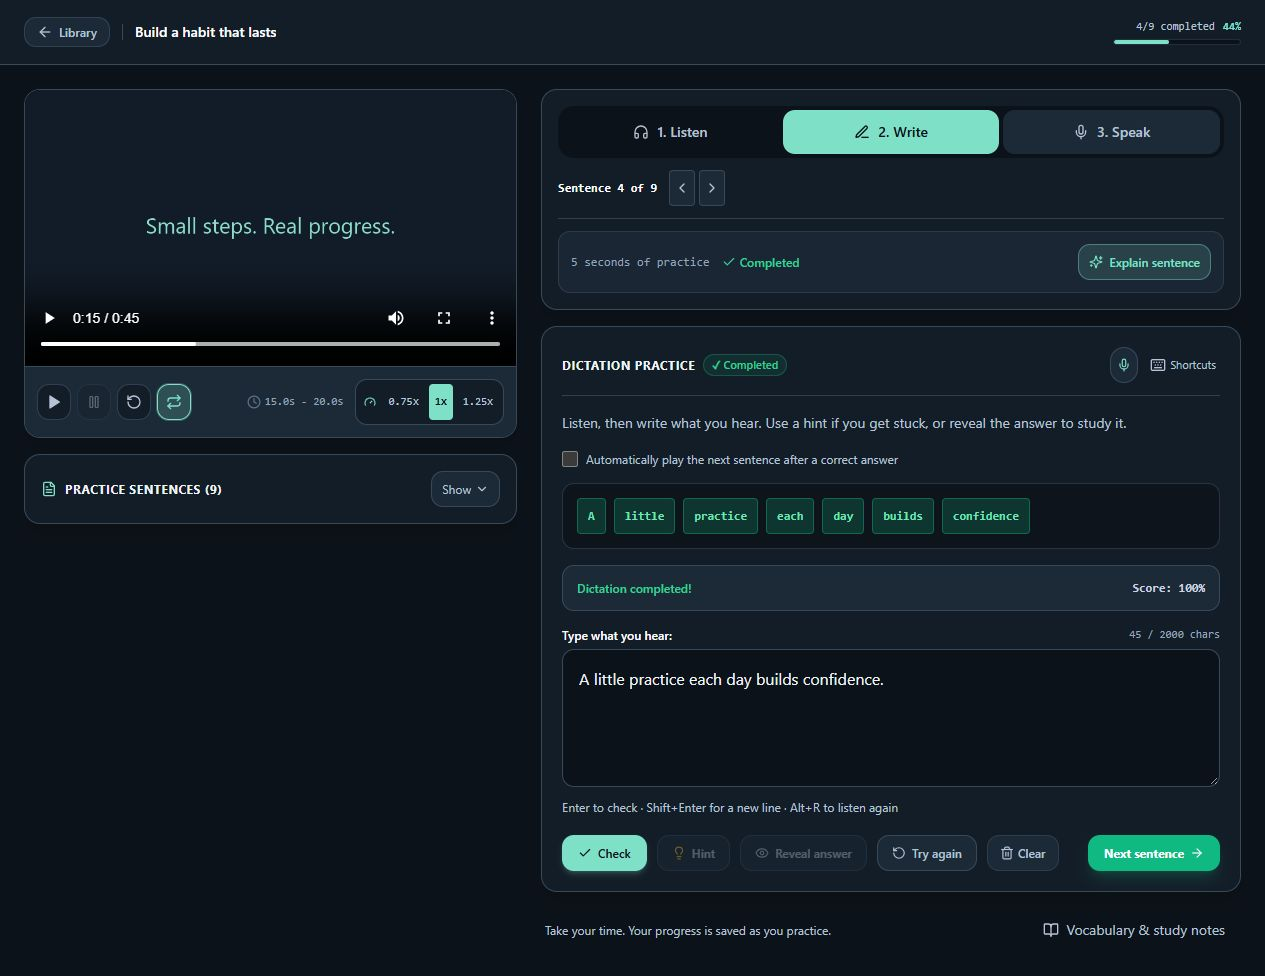
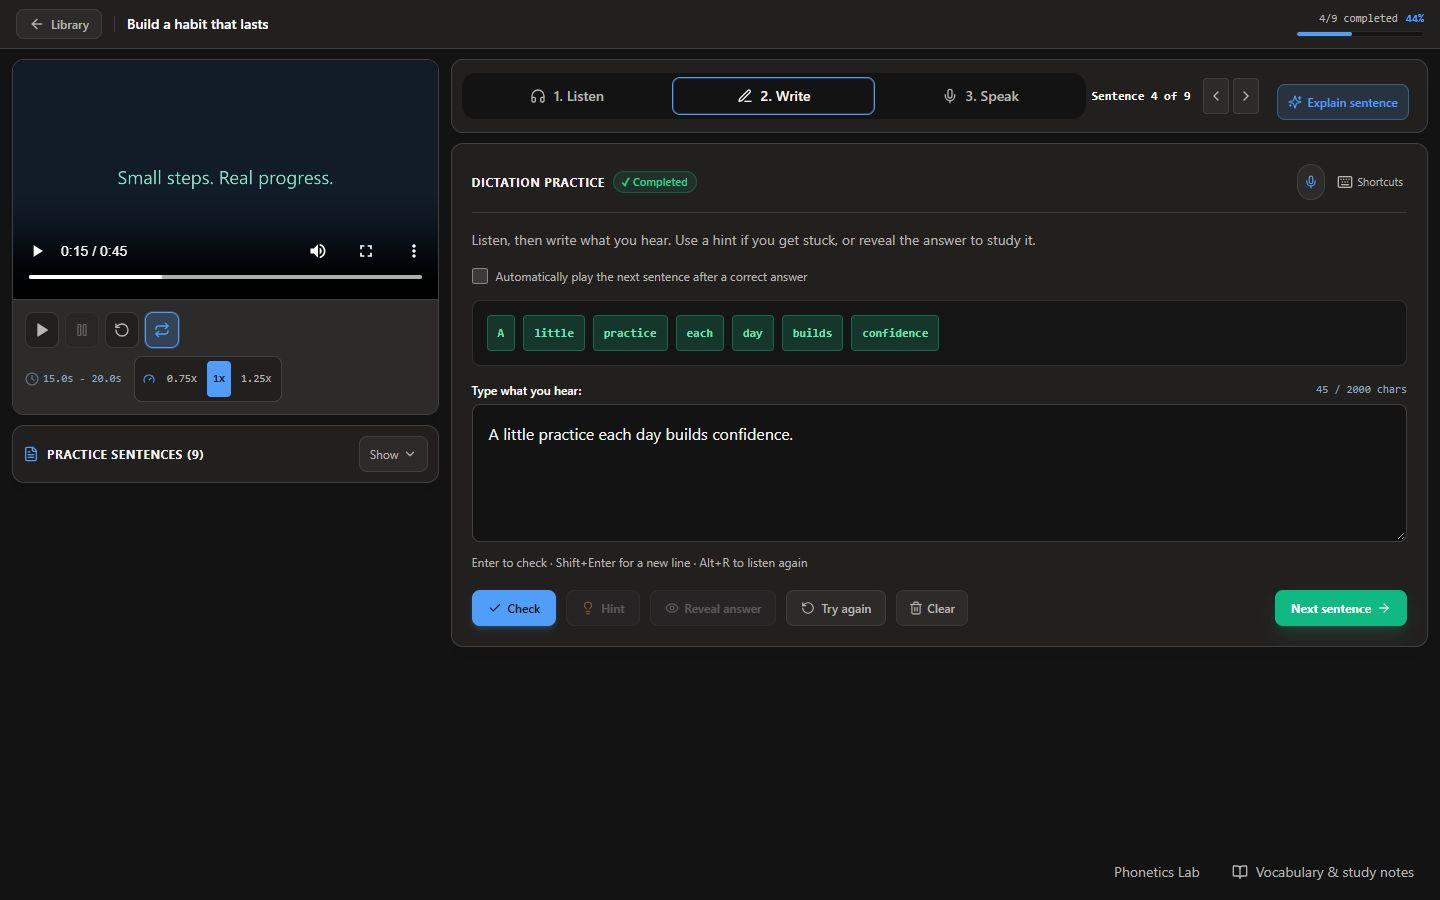
docs: refresh screenshots for charcoal interface

diff --git a/docs/assets/screenshots/README.md b/docs/assets/screenshots/README.md
@@ -1,9 +1,9 @@
 # App screenshots
 
-These JPEGs are direct browser captures of the running FluentTube interface, using an isolated demo database and synthetic content. They contain no personal library entries, user recordings, provider credentials or third-party video frames.
+These JPEGs show the charcoal and blue interface in a running FluentTube app, using an isolated demo database and synthetic content. They contain no personal library entries, user recordings, provider credentials or third-party video frames.
 
 - `library.jpg`: a sample library with in-progress, new and completed videos.
-- `dictation.jpg`: a correct sample answer evaluated by the real dictation endpoint.
+- `dictation.jpg`: a completed sample sentence in the dictation workspace.
 - `speaking.jpg`: the unlocked speaking workspace before recording.
 
 The sample video frame ("Small steps. Real progress.") was generated locally for these captures. Its silent audio track is a placeholder; this screenshot fixture does not demonstrate speech recognition accuracy. No real user progress was changed.

diff --git a/README.es.md b/README.es.md
@@ -6,6 +6,8 @@ Una app para practicar inglés con videos: **escucha una frase, escribe lo que o
 
 ## Capturas
 
+Interfaz en tonos carbón y azul, capturada con contenido sintético en una biblioteca de demostración aislada. Consulta las [notas de las capturas](docs/assets/screenshots/README.md) para más detalles.
+
 Pantallas reales de la app con contenido ficticio, capturadas en una biblioteca de demostración separada.
 
 | Tu biblioteca | Dictado y feedback |

diff --git a/README.md b/README.md
@@ -28,7 +28,7 @@ FluentTube turns English speech into short exercises. Import a video, listen to 
 
 ## Screenshots
 
-Real app screenshots captured with synthetic demo content in an isolated library.
+The charcoal and blue interface, captured from the running app with synthetic content in an isolated demo library. See the [screenshots notes](docs/assets/screenshots/README.md) for details.
 
 | Your library | Dictation feedback |
 | :---: | :---: |
